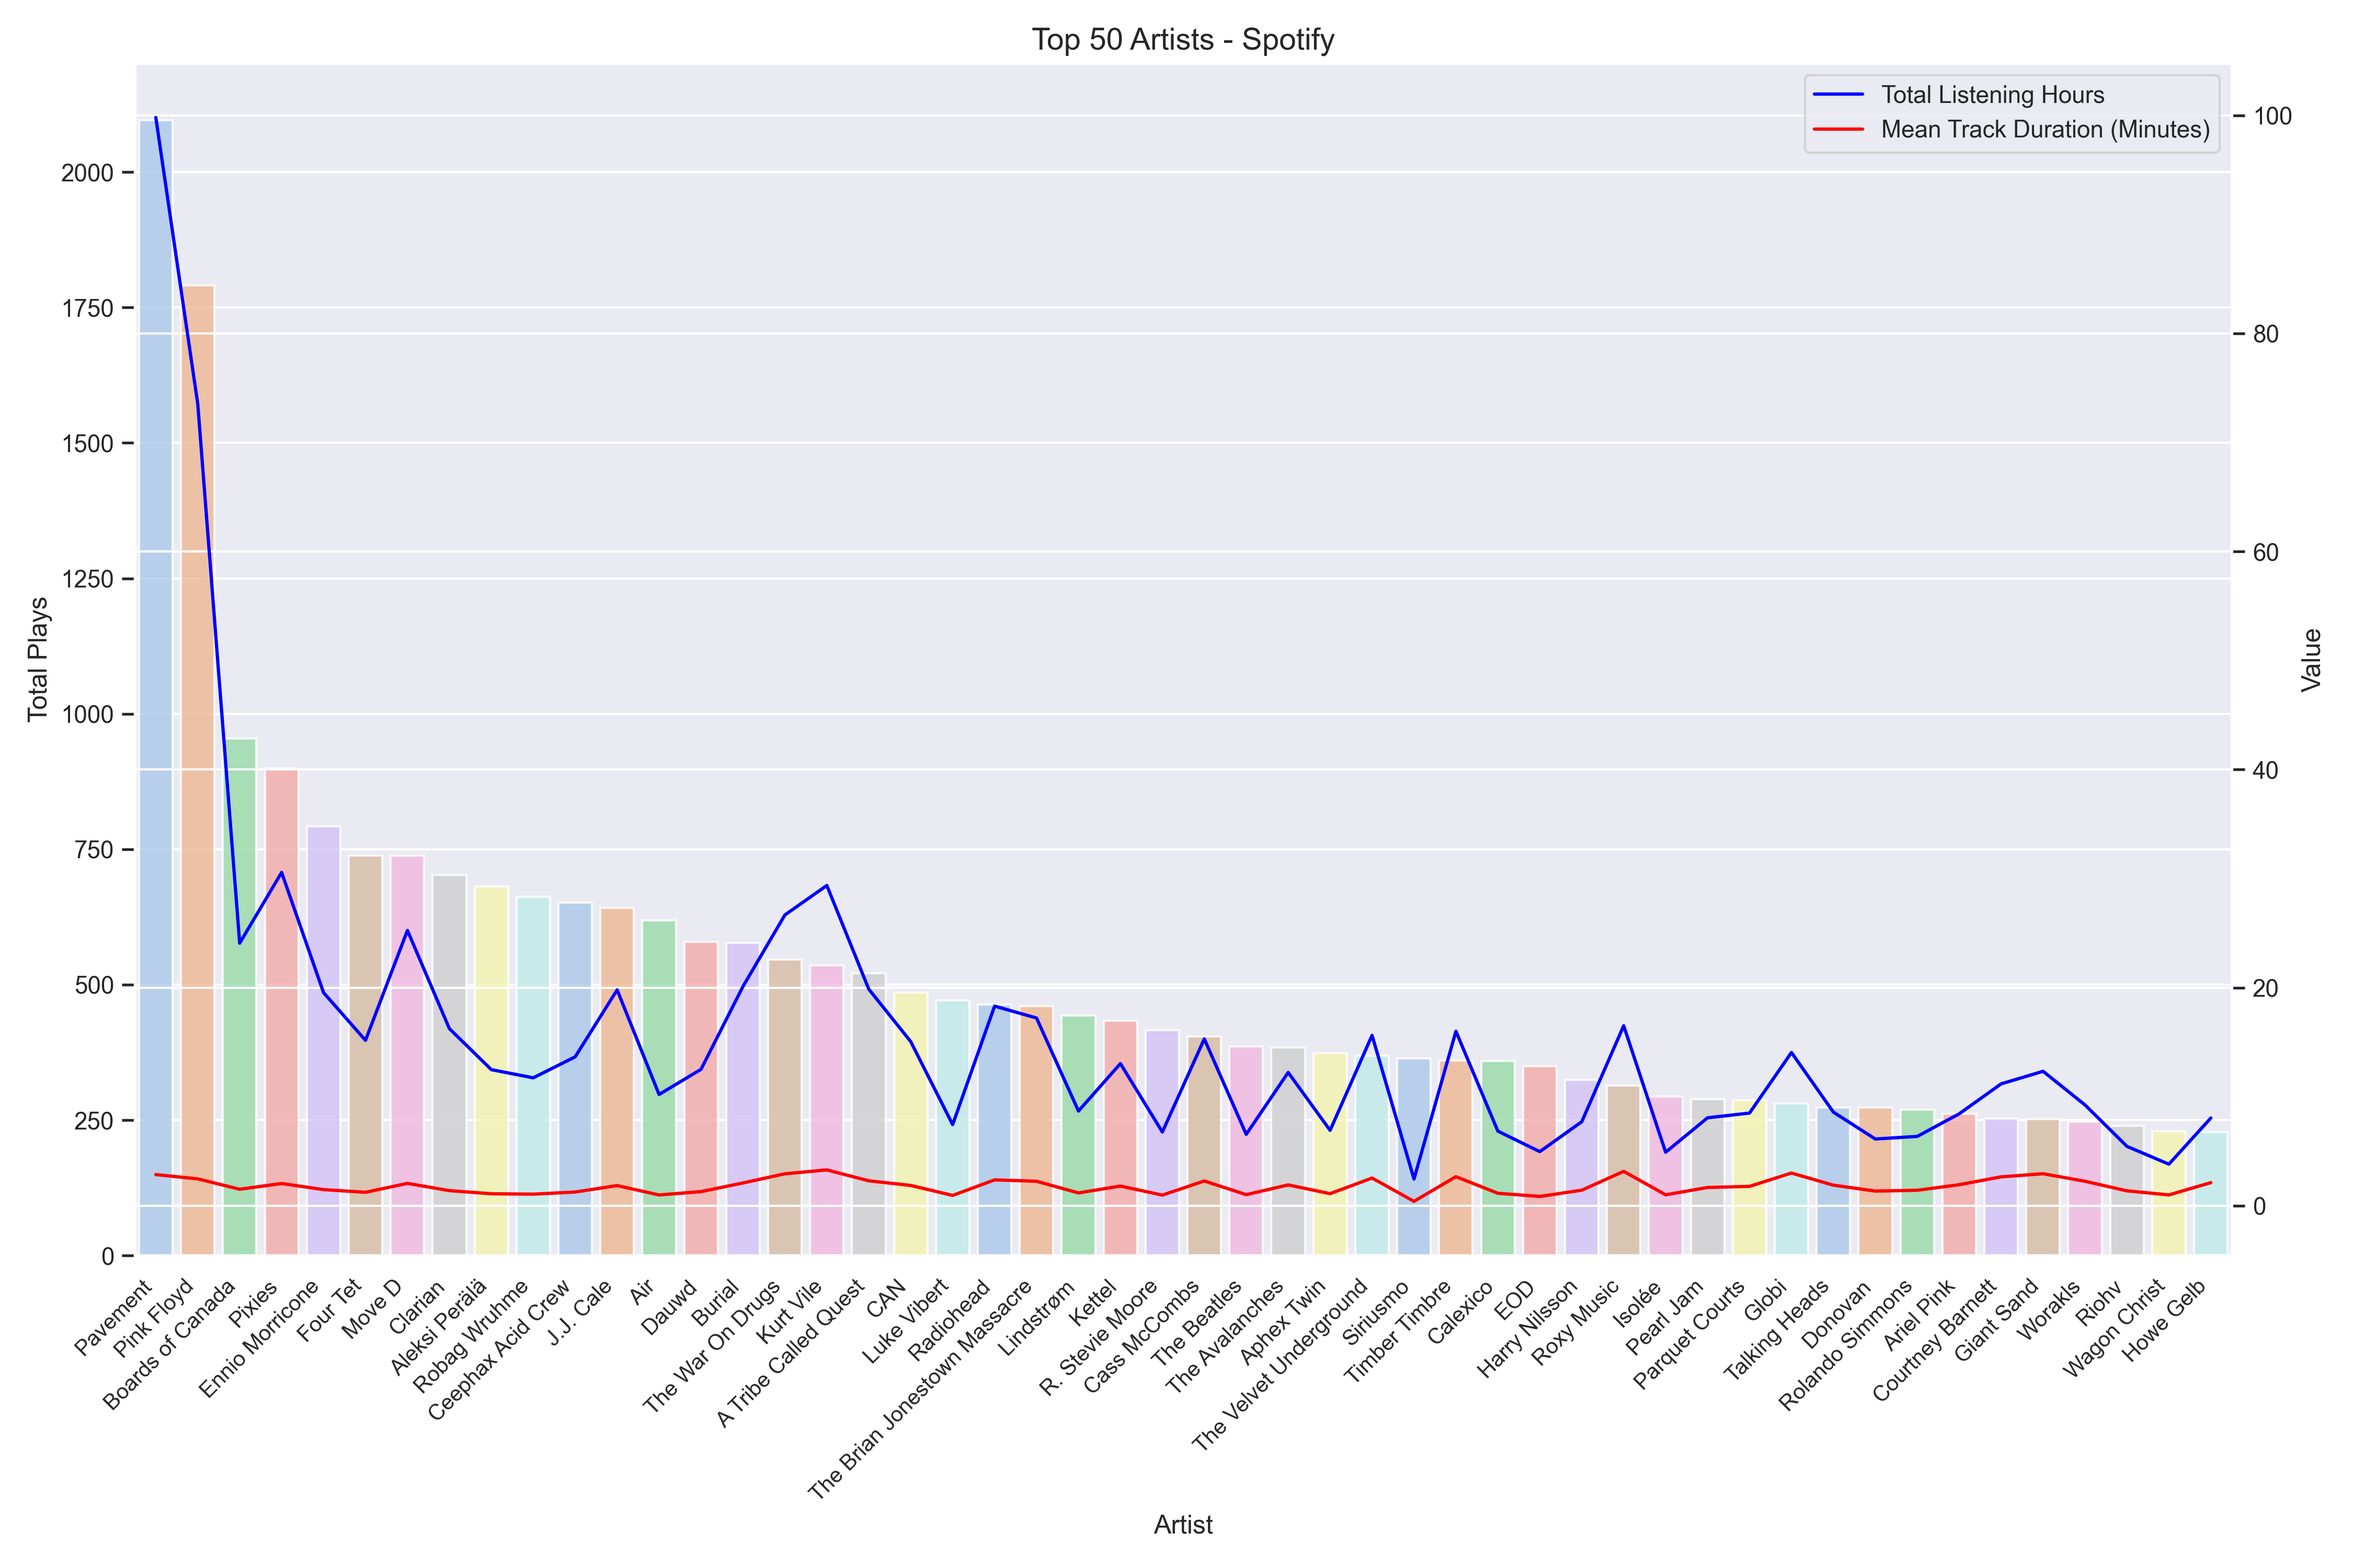
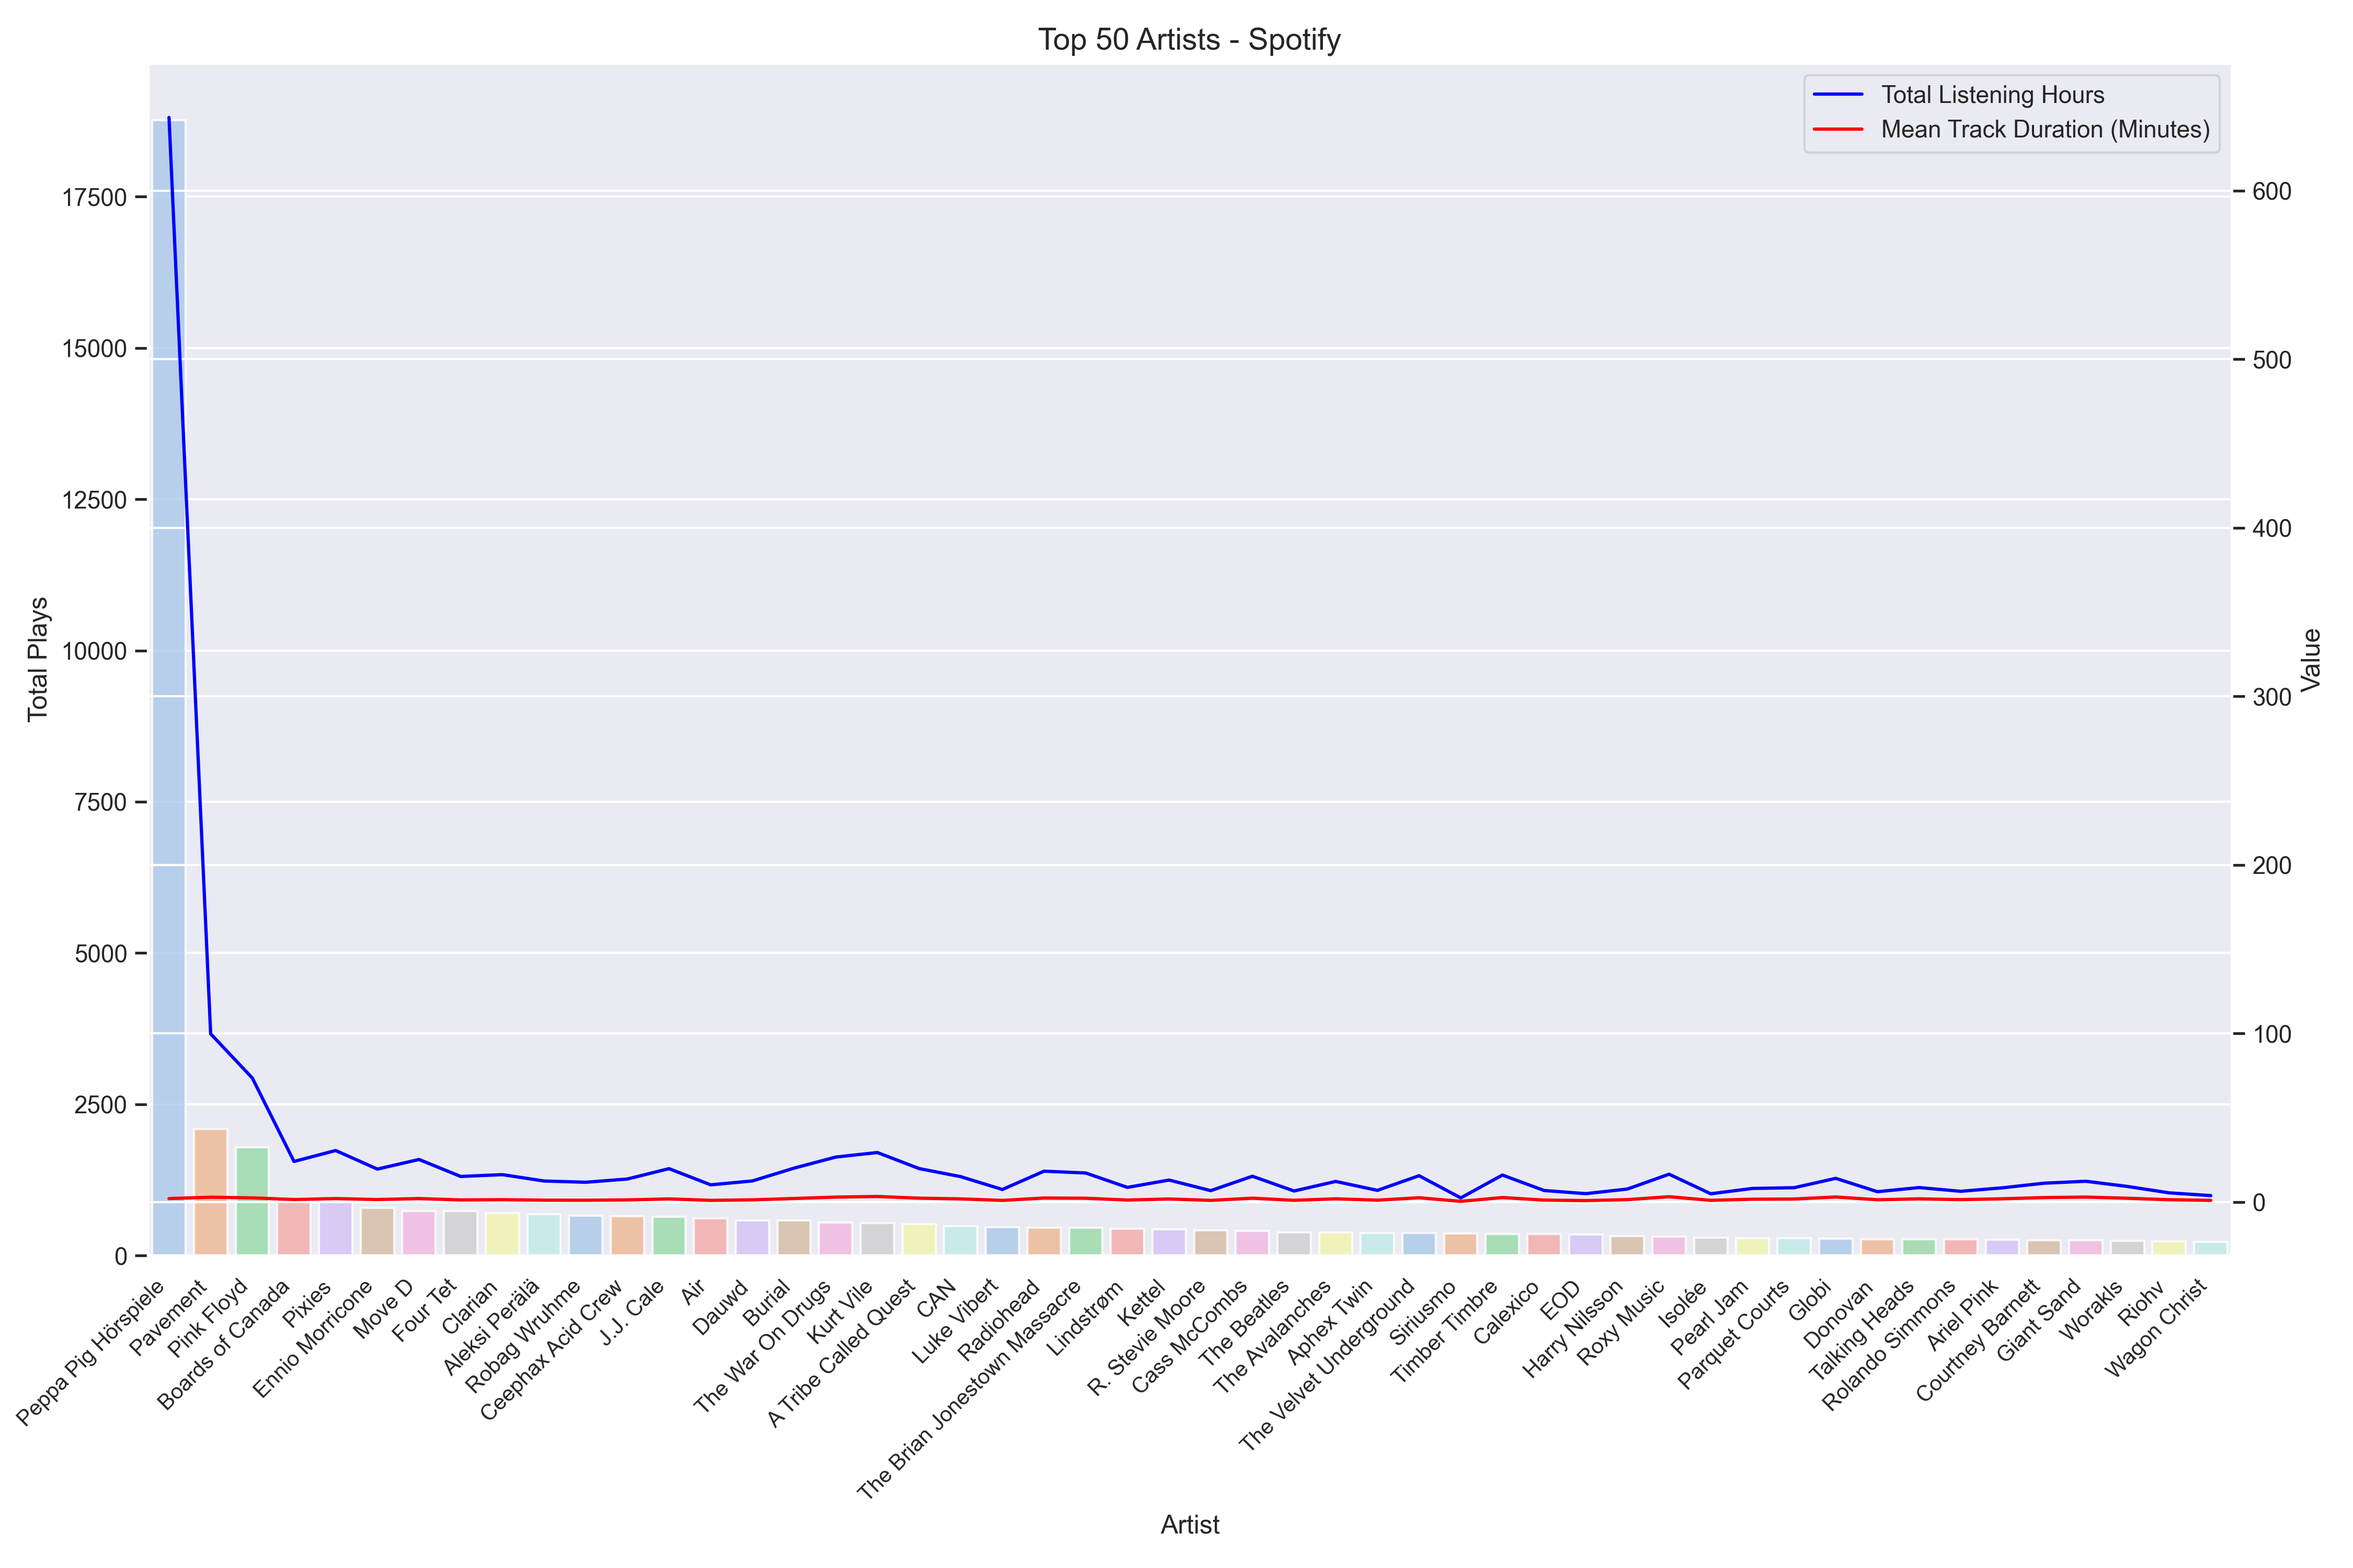
Update for common use

diff --git a/spotifyplot.py b/spotifyplot.py
@@ -5,9 +5,6 @@ import json
 import os
 import logging
 
-# Create a logger
-logging.basicConfig(filename='spotify.log', level=logging.INFO)
-
 def load_data(filepath):
     """
     Load data from a directory containing json files.
@@ -113,7 +110,7 @@ def top_artists(filepath, num_artists=50, excluded_artists=[]):
     create_plot(df_top_artists, save_to='top_artists.png')
 
 def main():
-    top_artists('MyData', num_artists=50, excluded_artists=['Peppa Pig Hörspiele'])
+    top_artists('MyData', num_artists=50, excluded_artists=[])
 
 if __name__ == "__main__":
     main()
